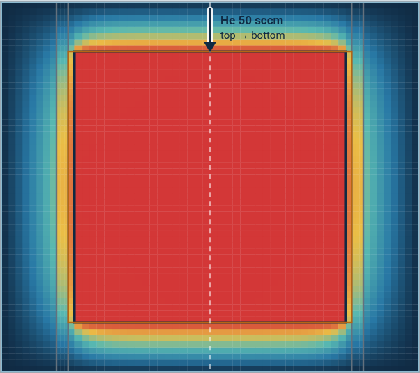
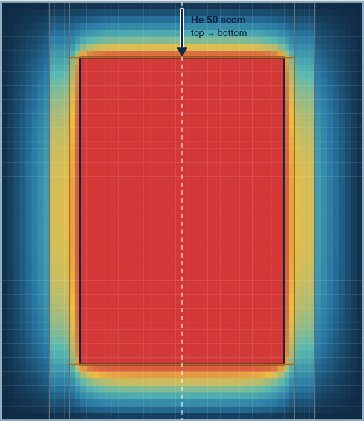
Home/RPH polish: new joule defaults and thumbnail, chart label fixes
Joule now defaults to the microwave bed geometry (nominal 1.18 cm3,
L/D 1.5) and the home card shows that slimmer 2D field. Home card body
becomes display:block so its padding survives block-in-inline
splitting. The RPH ratios tab keeps its proper nouns (lambda and Da
escape the lowercase tab transform), six-figure ratio ticks compact to
k/M suffixes clear of the rotated axis title, chart pads widen, and
axis/tick/legend fonts step up for readability.

Claude-Session: https://claude.ai/code/session_01Ag5MLyW88N3yaLkGy6Q9yc

diff --git a/apps/rphcjh/index.html b/apps/rphcjh/index.html
@@ -72,6 +72,7 @@
   }
   .tab:hover { color: var(--blue); }
   .tab.active { color: var(--blue); font-weight: 500; border-bottom-color: var(--blue); }
+  .tab.keep-case { text-transform: none; }
   .tab:focus-visible { outline: 2px solid var(--blue); outline-offset: -3px; }
 
   main { max-width: 1500px; margin: 0 auto; padding: 24px 28px 40px; }
@@ -144,8 +145,8 @@
   .status::before { content: "\25CF"; font-size: 12px; }
 
   svg.chart { display: block; width: 100%; height: auto; background: #fff; }
-  .chart-note { margin: 7px 4px 0; color: var(--muted); font-size: 12px; }
-  .legend { display: flex; flex-wrap: wrap; gap: 12px; margin: 8px 4px 0; color: var(--muted); font-size: 12px; }
+  .chart-note { margin: 7px 4px 0; color: var(--muted); font-size: 13px; }
+  .legend { display: flex; flex-wrap: wrap; gap: 12px; margin: 8px 4px 0; color: var(--muted); font-size: 13px; }
   .legend i { display: inline-block; width: 14px; height: 3px; margin-right: 5px; vertical-align: middle; }
   .legend i.dash { background: repeating-linear-gradient(90deg, currentColor 0 5px, transparent 5px 9px); }
 
@@ -284,7 +285,7 @@
   <div class="tabs" role="tablist">
     <button class="tab active" data-tab="animation" role="tab" aria-selected="true">Heating Animation</button>
     <button class="tab" data-tab="jensen" role="tab" aria-selected="false">When Pulsing Helps</button>
-    <button class="tab" data-tab="ratios" role="tab" aria-selected="false">&Lambda; and Da Ratios</button>
+    <button class="tab keep-case" data-tab="ratios" role="tab" aria-selected="false">&Lambda; and Da ratios</button>
     <button class="tab" data-tab="calculations" role="tab" aria-selected="false">Calculations</button>
     <button class="tab" data-tab="cite" role="tab" aria-selected="false">How to Cite</button>
   </div>
@@ -739,15 +740,15 @@ function axes(f, opts) {
   (opts.yTicks || []).forEach(t => {
     const y = f.y(t.v, opts.yLo, opts.yHi);
     s += `<line x1="${pad.l}" y1="${y}" x2="${w - pad.r}" y2="${y}" stroke="#e6ebef"/>`;
-    s += `<text x="${pad.l - 7}" y="${y + 4}" text-anchor="end" font-size="10" fill="#64717d">${esc(t.label)}</text>`;
+    s += `<text x="${pad.l - 7}" y="${y + 4}" text-anchor="end" font-size="12" fill="#64717d">${esc(t.label)}</text>`;
   });
   (opts.xTicks || []).forEach(t => {
     const x = f.x(t.v, opts.xLo, opts.xHi);
     s += `<line x1="${x}" y1="${pad.t}" x2="${x}" y2="${h - pad.b}" stroke="#f0f3f6"/>`;
-    s += `<text x="${x}" y="${h - pad.b + 15}" text-anchor="middle" font-size="10" fill="#64717d">${esc(t.label)}</text>`;
+    s += `<text x="${x}" y="${h - pad.b + 15}" text-anchor="middle" font-size="12" fill="#64717d">${esc(t.label)}</text>`;
   });
-  if (opts.xLabel) s += `<text x="${(pad.l + w - pad.r) / 2}" y="${h - 4}" text-anchor="middle" font-size="11" fill="#64717d">${esc(opts.xLabel)}</text>`;
-  if (opts.yLabel) s += `<text x="12" y="${(pad.t + h - pad.b) / 2}" text-anchor="middle" font-size="11" fill="#64717d" transform="rotate(-90 12 ${(pad.t + h - pad.b) / 2})">${esc(opts.yLabel)}</text>`;
+  if (opts.xLabel) s += `<text x="${(pad.l + w - pad.r) / 2}" y="${h - 4}" text-anchor="middle" font-size="13" fill="#64717d">${esc(opts.xLabel)}</text>`;
+  if (opts.yLabel) s += `<text x="12" y="${(pad.t + h - pad.b) / 2}" text-anchor="middle" font-size="13" fill="#64717d" transform="rotate(-90 12 ${(pad.t + h - pad.b) / 2})">${esc(opts.yLabel)}</text>`;
   return s;
 }
 
@@ -764,6 +765,14 @@ function ticks(lo, hi, n, fmt) {
     out.push({ v, label: fmt(v) });
   }
   return out;
+}
+
+// Compact "×" tick labels so six-figure ratios stay clear of the y-axis title.
+function fmtRatio(v) {
+  if (v >= 1e6) return Number((v / 1e6).toPrecision(3)) + "M×";
+  if (v >= 1e4) return Number((v / 1e3).toPrecision(3)) + "k×";
+  if (v >= 100) return v.toFixed(0) + "×";
+  return v.toFixed(1) + "×";
 }
 
 /* blackbody-ish colour ramp for the element */
@@ -985,7 +994,7 @@ function updateLive(TC) {
 }
 
 function drawTrace() {
-  const f = frame(760, 260, { l: 52, r: 14, t: 14, b: 34 });
+  const f = frame(760, 260, { l: 62, r: 14, t: 14, b: 34 });
   const tAvgRun = state.accTime ? state.accT / state.accTime : tAvgOf();
   const lo = Math.min(state.tMin, 300) - 40, hi = state.tPeak + 60;
   const x0 = Math.max(0, state.t - TRACE_WINDOW), x1 = Math.max(TRACE_WINDOW, state.t);
@@ -1009,10 +1018,10 @@ function drawRaces() {
   const x0 = Math.max(0, state.t - TRACE_WINDOW), x1 = Math.max(TRACE_WINDOW, state.t);
 
   const kMax = Math.max(1.35, ...state.kHist.map(p => p[1])) * 1.08;
-  const fk = frame(500, 230, { l: 48, r: 12, t: 12, b: 32 });
+  const fk = frame(500, 230, { l: 58, r: 12, t: 12, b: 32 });
   let sk = axes(fk, {
     xLo: x0, xHi: x1, yLo: 0.9, yHi: kMax,
-    yTicks: ticks(0.9, kMax, 4, v => v.toFixed(1) + "×"),
+    yTicks: ticks(0.9, kMax, 4, fmtRatio),
     xTicks: ticks(x0, x1, 3, v => v.toFixed(1) + "s"),
     xLabel: "time (s)"
   });
@@ -1022,7 +1031,7 @@ function drawRaces() {
 
   const hVals = state.hHist.map(p => p[1]);
   const hLo = Math.min(0.985, ...hVals) - 0.006, hHi = Math.max(1.015, ...hVals) + 0.006;
-  const fh = frame(500, 230, { l: 52, r: 12, t: 12, b: 32 });
+  const fh = frame(500, 230, { l: 62, r: 12, t: 12, b: 32 });
   let sh = axes(fh, {
     xLo: x0, xHi: x1, yLo: hLo, yHi: hHi,
     yTicks: ticks(hLo, hHi, 4, v => v.toFixed(3)),
@@ -1038,7 +1047,7 @@ function drawRaces() {
 /* jensen tab                                                          */
 /* ------------------------------------------------------------------ */
 function jensenChart(id, fn, color, label) {
-  const f = frame(460, 300, { l: 54, r: 16, t: 16, b: 40 });
+  const f = frame(460, 300, { l: 64, r: 16, t: 16, b: 40 });
   const lo = Math.max(200, state.tMin - 120), hi = state.tPeak + 120;
   const pts = [];
   for (let T = lo; T <= hi; T += (hi - lo) / 160) pts.push([T, fn(T)]);
@@ -1083,7 +1092,7 @@ function jensenChart(id, fn, color, label) {
 }
 
 function drawGainSweep() {
-  const f = frame(500, 250, { l: 54, r: 14, t: 16, b: 40 });
+  const f = frame(500, 250, { l: 64, r: 14, t: 16, b: 40 });
   const pts = [];
   const base = state.tMin;
   for (let dT = 0; dT <= 700; dT += 10) {
@@ -1095,7 +1104,7 @@ function drawGainSweep() {
   const yHi = Math.max(1.2, ...pts.map(p => p[1])) * 1.05;
   let s = axes(f, {
     xLo: 0, xHi: 700, yLo: 0.95, yHi,
-    yTicks: ticks(0.95, yHi, 4, v => v.toFixed(1) + "×"),
+    yTicks: ticks(0.95, yHi, 4, fmtRatio),
     xTicks: ticks(0, 700, 4, v => v.toFixed(0)),
     xLabel: "ΔT = T_peak − T_min (°C)", yLabel: "R_exposure"
   });
@@ -1161,7 +1170,7 @@ function renderRatios() {
   document.getElementById("rkpi4").className = "kpi " + (state.ea > twoRT ? "good" : "bad");
 
   // sweep over T_peak
-  const fp = frame(560, 300, { l: 54, r: 16, t: 16, b: 42 });
+  const fp = frame(560, 300, { l: 64, r: 16, t: 16, b: 42 });
   const lo = state.tMin, hi = Math.max(state.tMin + 50, 1500);
   const ptsDa = [], ptsLam = [];
   for (let p = lo; p <= hi; p += (hi - lo) / 140) {
@@ -1177,7 +1186,7 @@ function renderRatios() {
   const yHi = Math.max(1.5, ...ptsLam.map(p => p[1]), ...ptsDa.map(p => p[1])) * 1.05;
   let s = axes(fp, {
     xLo: lo, xHi: hi, yLo: 0.9, yHi,
-    yTicks: ticks(0.9, yHi, 5, v => v.toFixed(1) + "×"),
+    yTicks: ticks(0.9, yHi, 5, fmtRatio),
     xTicks: ticks(lo, hi, 5, v => v.toFixed(0)),
     xLabel: "T_peak (°C)", yLabel: "ratio vs CJH at T_avg"
   });
@@ -1186,11 +1195,11 @@ function renderRatios() {
   s += path(ptsLam, fp, lo, hi, 0.9, yHi, "#2c6e9b", 2.4);
   const xNow = fp.x(state.tPeak, lo, hi);
   s += `<line x1="${xNow}" y1="${fp.pad.t}" x2="${xNow}" y2="${fp.h - fp.pad.b}" stroke="#102a43" stroke-dasharray="3 4"/>`;
-  s += `<text x="${xNow}" y="${fp.pad.t + 12}" text-anchor="middle" font-size="10" fill="#102a43">current</text>`;
+  s += `<text x="${xNow}" y="${fp.pad.t + 12}" text-anchor="middle" font-size="12" fill="#102a43">current</text>`;
   document.getElementById("sweepPeak").innerHTML = s;
 
   // sweep over duty
-  const fd = frame(560, 300, { l: 54, r: 16, t: 16, b: 42 });
+  const fd = frame(560, 300, { l: 64, r: 16, t: 16, b: 42 });
   const ptsD = [], ptsL = [];
   for (let d = 0.02; d <= 0.98; d += 0.01) {
     const ta = d * state.tPeak + (1 - d) * state.tMin;
@@ -1203,7 +1212,7 @@ function renderRatios() {
   const yHi2 = Math.max(1.5, ...ptsD.map(p => p[1]), ...ptsL.map(p => p[1])) * 1.05;
   let s2 = axes(fd, {
     xLo: 0, xHi: 1, yLo: 0.9, yHi: yHi2,
-    yTicks: ticks(0.9, yHi2, 5, v => v.toFixed(1) + "×"),
+    yTicks: ticks(0.9, yHi2, 5, fmtRatio),
     xTicks: ticks(0, 1, 5, v => v.toFixed(1)),
     xLabel: "duty cycle d", yLabel: "ratio vs CJH at T_avg"
   });
@@ -1212,7 +1221,7 @@ function renderRatios() {
   s2 += path(ptsL, fd, 0, 1, 0.9, yHi2, "#2c6e9b", 2.4);
   const xd = fd.x(state.duty, 0, 1);
   s2 += `<line x1="${xd}" y1="${fd.pad.t}" x2="${xd}" y2="${fd.h - fd.pad.b}" stroke="#102a43" stroke-dasharray="3 4"/>`;
-  s2 += `<text x="${xd}" y="${fd.pad.t + 12}" text-anchor="middle" font-size="10" fill="#102a43">current</text>`;
+  s2 += `<text x="${xd}" y="${fd.pad.t + 12}" text-anchor="middle" font-size="12" fill="#102a43">current</text>`;
   document.getElementById("sweepDuty").innerHTML = s2;
 }
 

diff --git a/apps/joule/index.html b/apps/joule/index.html
@@ -940,11 +940,11 @@
             <div class="card-body fields">
               <div class="field">
                 <label for="nominalVolume">Nominal volume</label>
-                <div class="control-row"><input id="nominalVolume" type="number" min="0" step="any" value="10"><span class="unit">cm³</span></div>
+                <div class="control-row"><input id="nominalVolume" type="number" min="0" step="any" value="1.18"><span class="unit">cm³</span></div>
               </div>
               <div class="field">
                 <label for="aspectRatio">Aspect ratio, L/D</label>
-                <input id="aspectRatio" type="number" min="0" step="any" value="1">
+                <input id="aspectRatio" type="number" min="0" step="any" value="1.5">
               </div>
               <div class="field full">
                 <label for="voidFraction">Void fraction, φ</label>

diff --git a/index.html b/index.html
@@ -154,7 +154,7 @@
       object-fit: cover;
       display: block;
     }
-    .project-card-body { padding: 15px 17px 17px; }
+    .project-card-body { display: block; padding: 15px 17px 17px; }
     .project-card h2 {
       margin: 0 0 5px;
       color: var(--accent);
